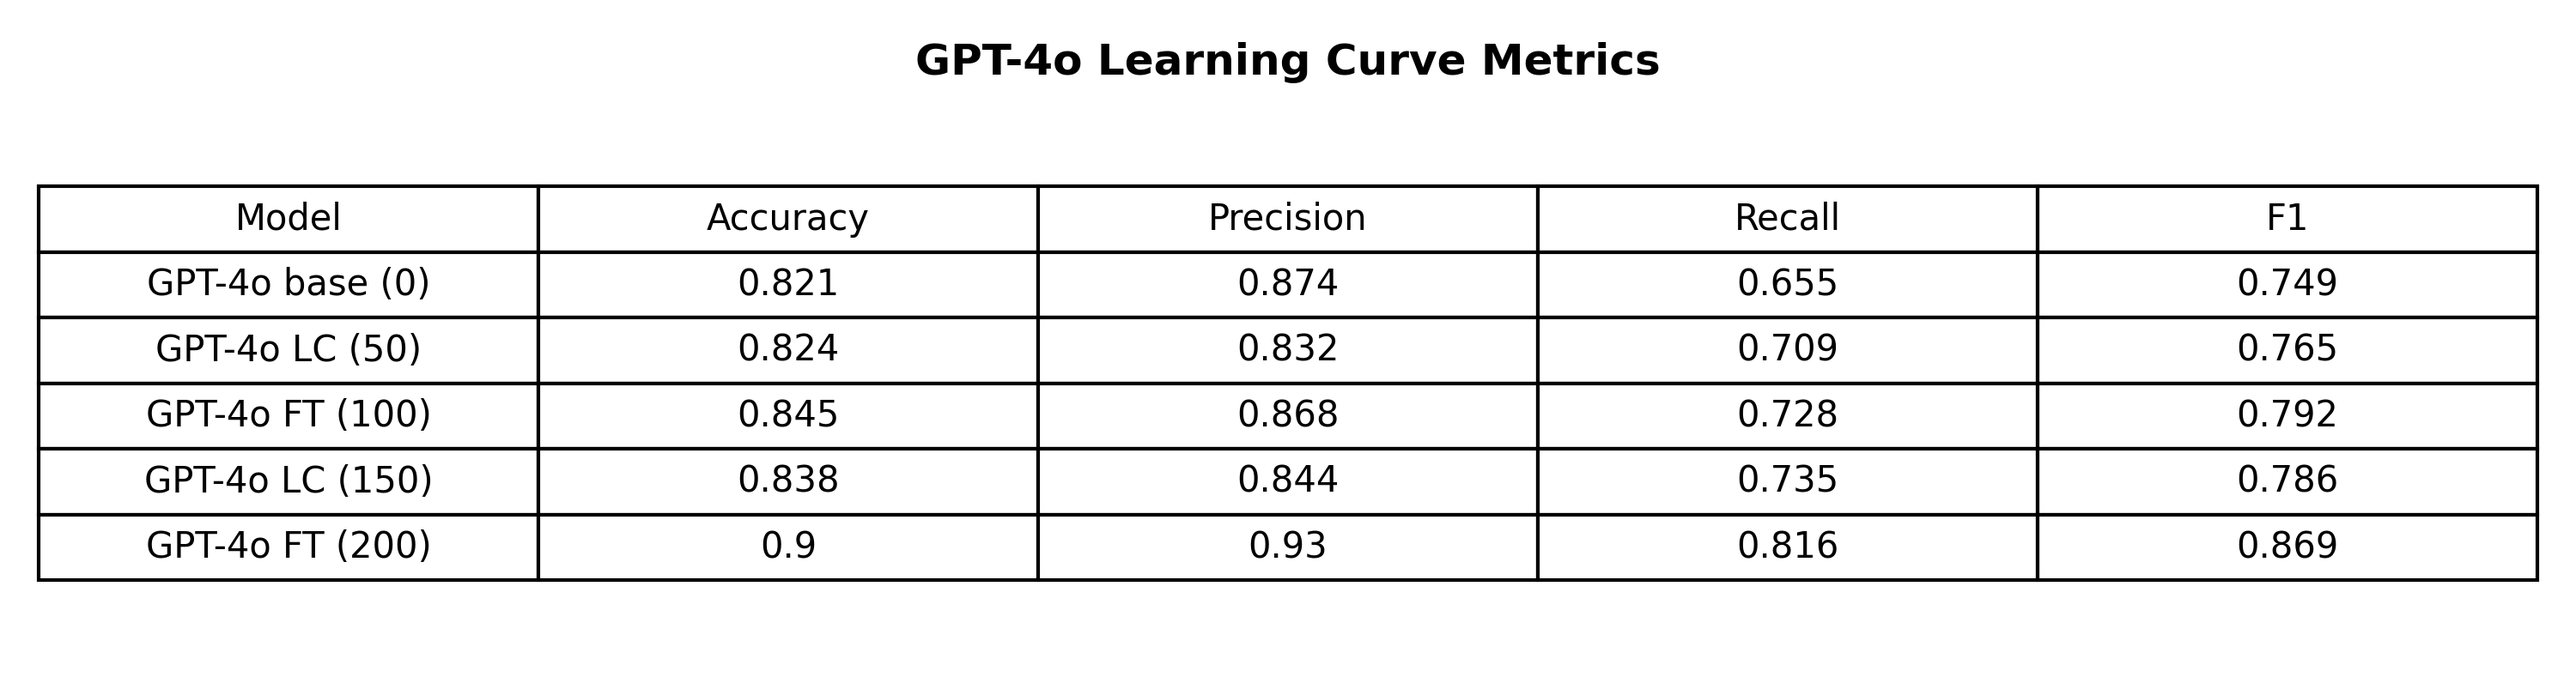
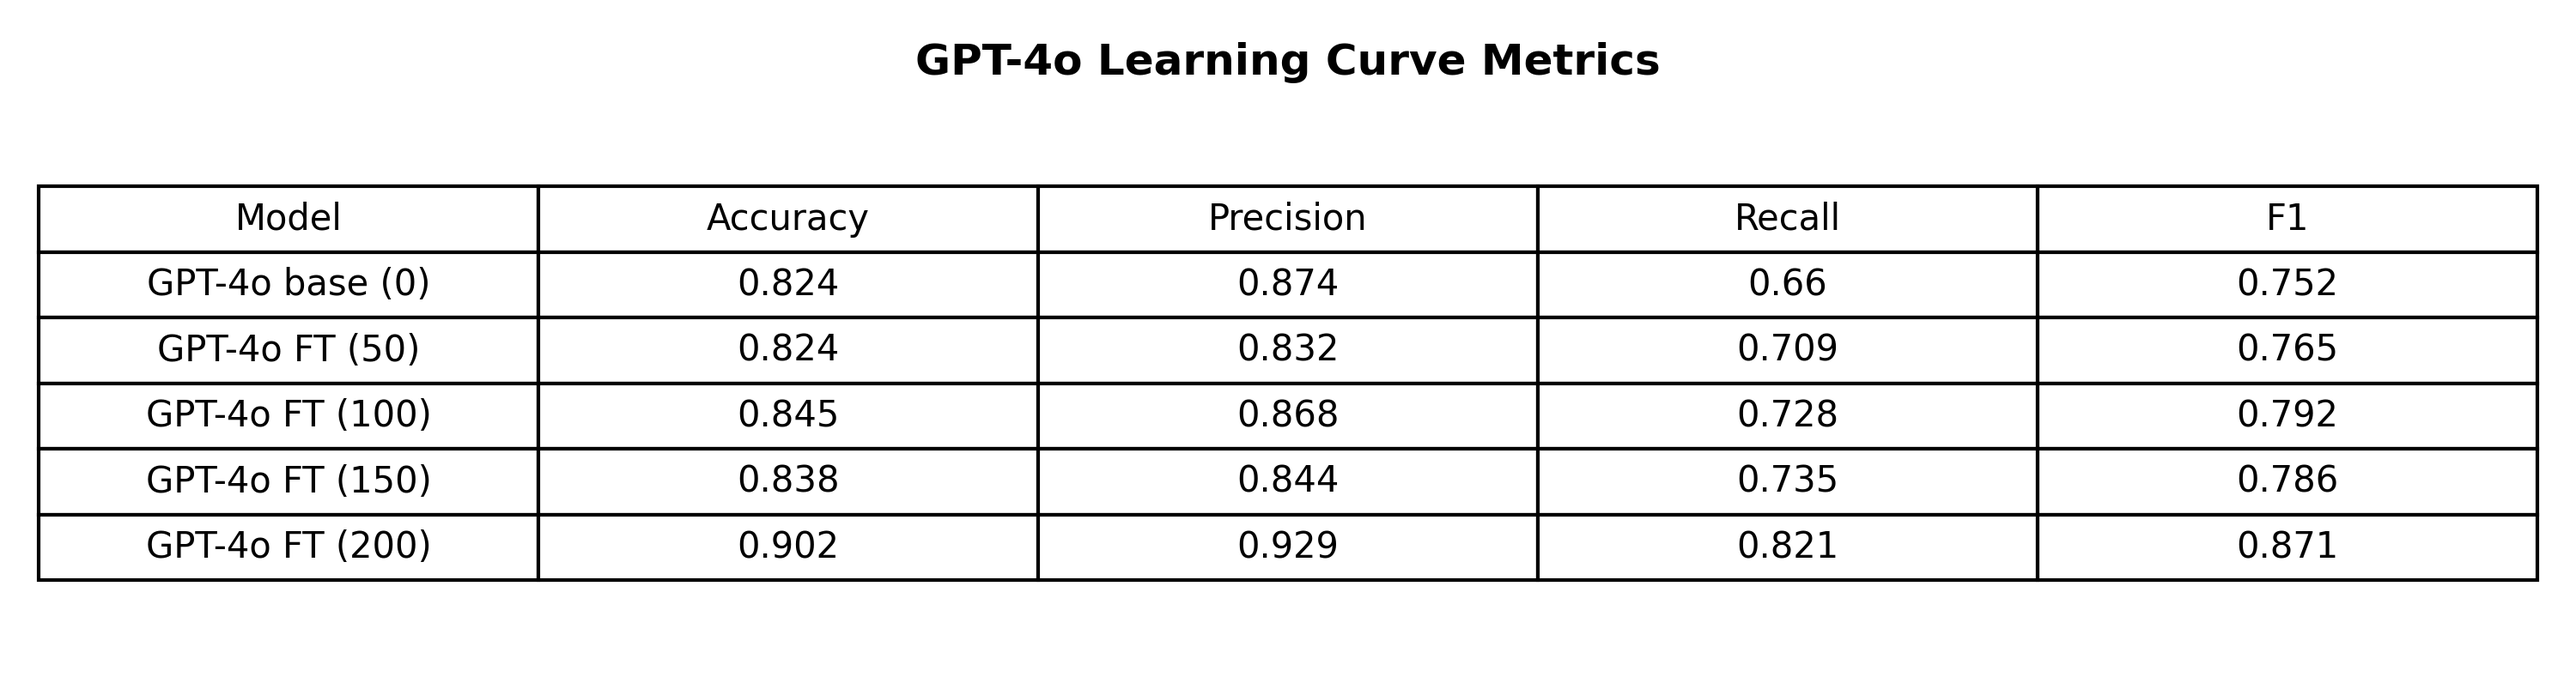
update learning curve labels

diff --git a/eval/learning-curve/plot_learning_curve.py b/eval/learning-curve/plot_learning_curve.py
@@ -23,13 +23,13 @@ COMBINED_CSV = Path("eval/learning-curve/results/learning_curve_overall_combined
 
 MODEL_SIZE_MAP: Dict[str, int] = {
     "GPT-4o base": 0,
+    "GPT-4o FT (50)": 50,
     "GPT-4o LC size050": 50,
-    "GPT-4o LC (50)": 50,
     "GPT-4o FT (100)": 100,
     "GPT-4o LC size100": 100,
     "GPT-4o LC (100)": 100,
+    "GPT-4o FT (150)": 150,
     "GPT-4o LC size150": 150,
-    "GPT-4o LC (150)": 150,
     "GPT-4o FT": 200,
     "GPT-4o FT (200)": 200,
 }
@@ -75,11 +75,11 @@ def _format_label(row: pd.Series) -> str:
     if size == 0:
         return "GPT-4o base (0)"
     if size == 50:
-        return "GPT-4o LC (50)"
+        return "GPT-4o FT (50)"
     if size == 100:
         return "GPT-4o FT (100)"
     if size == 150:
-        return "GPT-4o LC (150)"
+        return "GPT-4o FT (150)"
     if size == 200:
         return "GPT-4o FT (200)"
     return f"GPT-4o ({size})"

diff --git a/advanced-prompting/02_call_openai.py b/advanced-prompting/02_call_openai.py
@@ -13,7 +13,7 @@ import sys
 import time
 from dataclasses import dataclass
 from pathlib import Path
-from typing import Iterable, Sequence
+from typing import Iterable
 
 from openai import AsyncOpenAI
 from dotenv import load_dotenv
